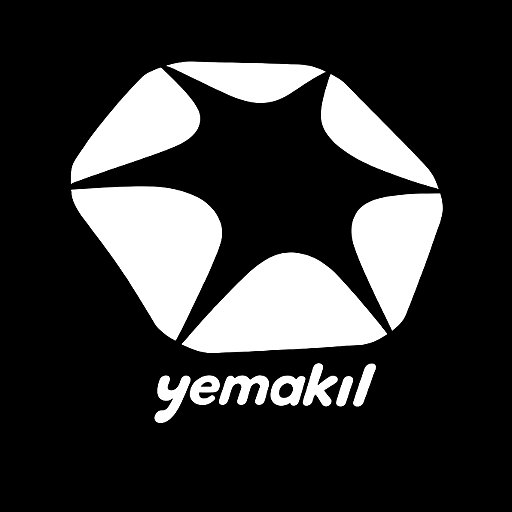
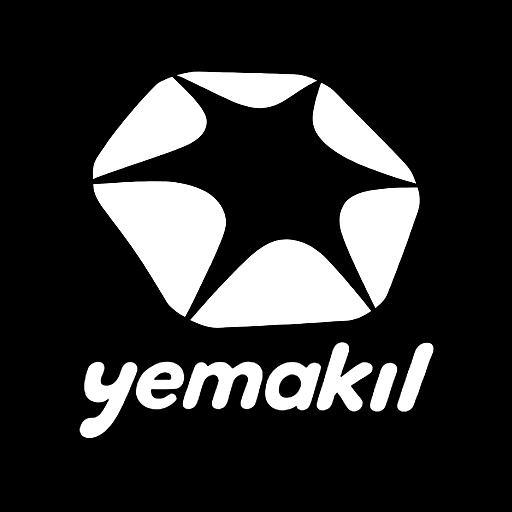
V151: YemAkıl simgesinde yemakıl yazısı büyütüldü (telefonda net okunsun); sw v109
Claude-Session: https://claude.ai/code/session_011RPLY6WoBZnPetACLTtNmP

Changed region(s): [[0.125, 0.0938, 0.875, 0.875], [0.4375, 0.1875, 0.5625, 0.2188], [0.4062, 0.5, 0.4375, 0.5312]]

diff --git a/sw.js b/sw.js
@@ -1,4 +1,4 @@
-const C="yemakil-v108";
+const C="yemakil-v109";
 self.addEventListener("install",e=>{self.skipWaiting();e.waitUntil(caches.open(C).then(c=>c.addAll(["./","./index.html","./manifest.json","./icon-192.png","./icon-512.png","./icon-512-maskable.png","./logo-rasyon-yuvarlak.png","./apple-touch-icon.png","./veri.js","./saglik.js","./siparis.js","./siparis.html","./fiyat.html","./fiyat.js","./manifest-fiyat.json","./manifest-siparis.json","./icon-fiyat-192.png","./icon-fiyat-512.png","./icon-siparis-192.png","./icon-siparis-512.png","./icon-siparis-maskable-512.png","./apple-touch-icon-fiyat.png","./apple-touch-icon-siparis.png","./icon-fiyat-maskable-512.png","./yemakil.html","./manifest-yemakil.json","./icon-yemakil-192.png","./icon-yemakil-512.png","./icon-yemakil-maskable-512.png","./apple-touch-icon-yemakil.png"].map(u=>new Request(u,{cache:"reload"}))).catch(()=>{})))});
 self.addEventListener("activate",e=>{e.waitUntil(caches.keys().then(ks=>Promise.all(ks.filter(k=>k!==C&&k!=="yk-paylas").map(k=>caches.delete(k)))).then(()=>self.clients.claim()))});
 /* Ağ öncelikli; kendi dosyalarımız tarayıcının HTTP önbelleğini atlayıp sunucuya sorularak alınır (yeni sürüm hemen gelsin, V137); sayfa açılışında ağ 3 sn'de yanıt vermezse önbellek (zayıf kırsal bağlantı). Yalnız kendi dosyalarımız ve yazı tipleri önbelleğe alınır; hatalı yanıt önbelleğe yazılmaz. */
